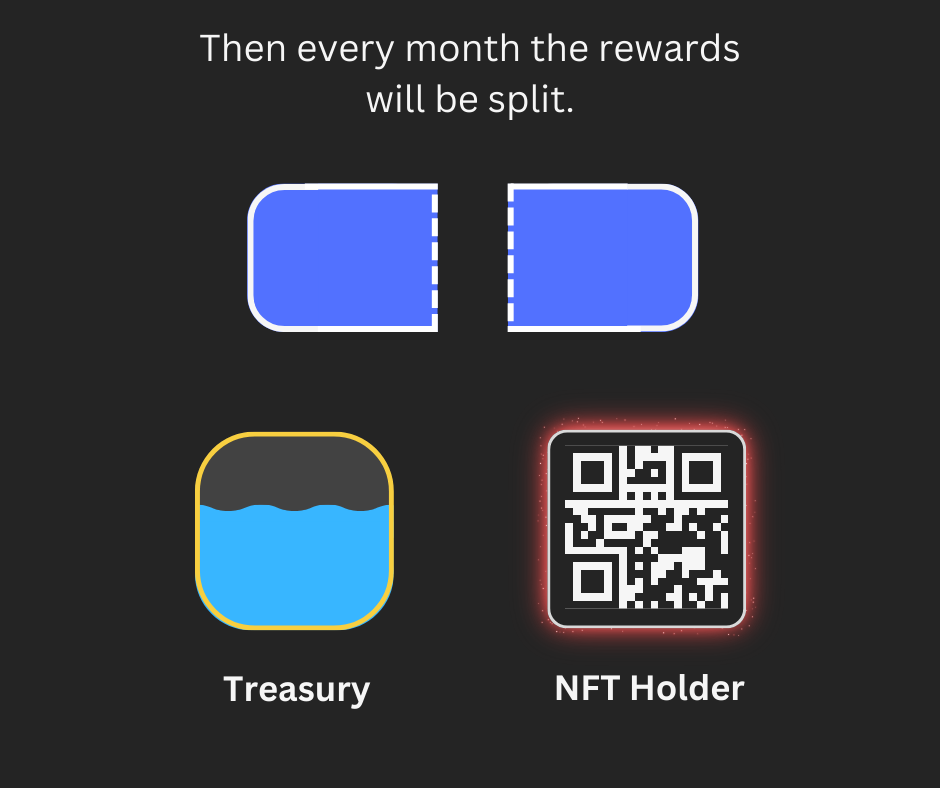
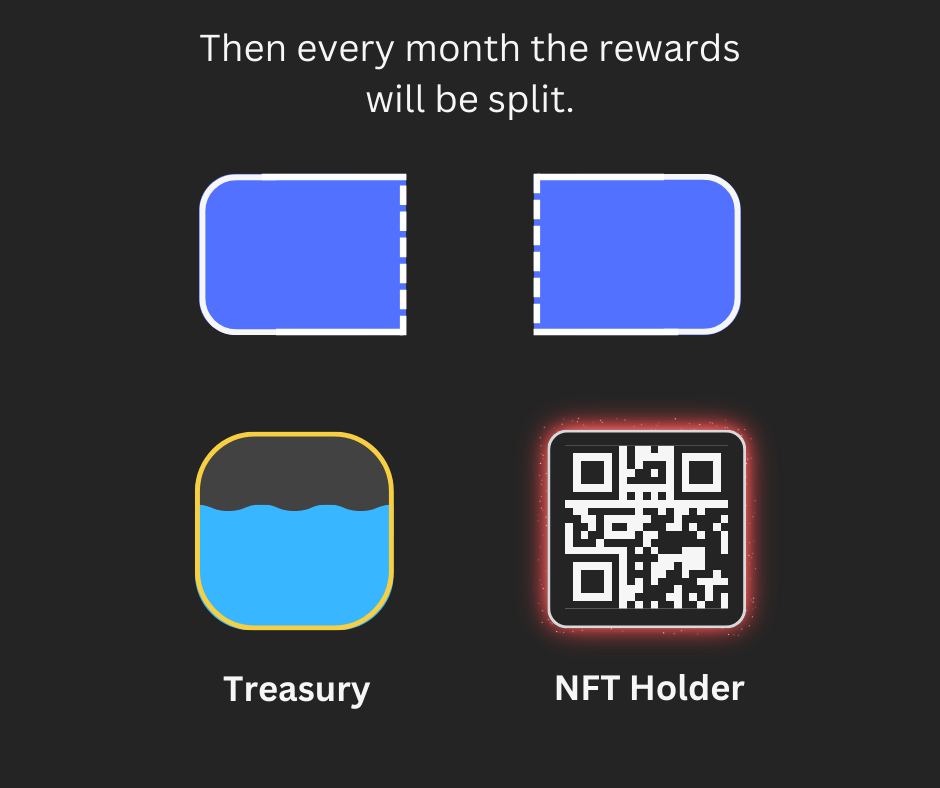
about treasury animation finished

Changed region(s): [[0.1851, 0.2132, 0.4936, 0.4264], [0.5245, 0.2132, 0.8021, 0.4264]]

diff --git a/src/app/globals.css b/src/app/globals.css
@@ -57,7 +57,7 @@
   margin-top: 30px;
   transition: 0.2s ease;
   font-size: 14px;
-  color: whitesmoke;
+  color: rgb(209, 233, 255);
   font-weight: bolder;
   background: linear-gradient(90deg, #1087F3 0%, #AC43E0 76%);
   animation: fade-slide-from-right ease 2.5s;
@@ -93,19 +93,49 @@
   width: 100%;
   height: 100%;
   justify-content: center;
+  animation: aboutOnLoad ease 4s;
 }
 
 .AboutImage {
-  width: 940px;
-  height: 788px;
+  width: 752px;
+  height: 630.4px;
   border-radius: 5%;
   background-color: #242424;
   background-size: contain;
   background-repeat: no-repeat;
   background-position: center;
-  transition: 0.3s ease;
+  transition: 1s ease;
+  border: solid 4px #898989;
+  position: relative;
 }
 
+.aboutBtn {
+  position: absolute;
+  height: 60px;
+  width: 60px;
+  border-radius: 50%;
+  border: none;
+  background: rgb(172, 67, 224);
+  color: rgb(209, 233, 255);
+}
+.aboutBtn * {
+  height: 60px;
+  width: 60px;
+}
+.aboutBtn:hover {
+  box-shadow: 0 5px 15px rgba(202, 200, 204, 0.4);
+}
+.aboutBtnRight {
+  right: -30px;
+  top: calc(50% - 30px);
+}
+.aboutBtnLeft {
+  left: -30px;
+  top: calc(50% - 30px);
+}
+.hide {
+  visibility: hidden;
+}
 .about1 {
   background-image: url('./about/images/About_Treasury_1.png');
 }
@@ -113,30 +143,123 @@
   background-image: url('./about/images/About_Treasury_2.png');
 }
 .about3 {
-  background-image: url('./about/images/About_Treasury_3.png');
+  background-image: url('./about/images/About_Treasury_3a.png');
+  animation: about3animation ease 4s;
 }
-.about4 {
-  background-image: url('./about/images/About_Treasury_4.png');
-}
-.about5 {
-  background-image: url('./about/images/About_Treasury_5.png');
-}
-.about6 {
-  background-image: url('./about/images/About_Treasury_6.png');
-}
-.about7 {
-  background-image: url('./about/images/About_Treasury_7.png');
-}
-.about8 {
-  background-image: url('./about/images/About_Treasury_8.png');
-}
-@media screen and (max-width: 1000px) {
-  .AboutImage {
-    width: 752px;
-    height: 630.4px;
+@keyframes about3animation {
+  0% {
+    background-image: url('./about/images/About_Treasury_3.png');
+  }
+  50% {
+    background-image: url('./about/images/About_Treasury_3.png');
+  }
+  100% {
+    background-image: url('./about/images/About_Treasury_3a.png');
   }
 }
-@media screen and (max-width: 800px) {
+.about4 {
+  background-image: url('./about/images/About_Treasury_4a.png');
+  animation: about4animation ease 3s;
+}
+@keyframes about4animation {
+  0% {
+    background-image: url('./about/images/About_Treasury_4.png');
+  }
+  80% {
+    background-image: url('./about/images/About_Treasury_4.png');
+  }
+  100% {
+    background-image: url('./about/images/About_Treasury_4a.png');
+  }
+}
+.about5 {
+  background-image: url('./about/images/About_Treasury_5a.png');
+  animation: about5animation ease 3s;
+}
+@keyframes about5animation {
+  0% {
+    background-image: url('./about/images/About_Treasury_5.png');
+  }
+  50% {
+    background-image: url('./about/images/About_Treasury_5.png');
+  }
+  100% {
+    background-image: url('./about/images/About_Treasury_5a.png');
+  }
+}
+.about6 {
+  background-image: url('./about/images/About_Treasury_6a.png');
+  animation: about6animation ease 3s;
+}
+@keyframes about6animation {
+  0% {
+    background-image: url('./about/images/About_Treasury_6.png');
+  }
+  60% {
+    background-image: url('./about/images/About_Treasury_6.png');
+  }
+  100% {
+    background-image: url('./about/images/About_Treasury_6a.png');
+  }
+}
+.about7 {
+  background-image: url('./about/images/About_Treasury_7c.png');
+  animation: about7animation ease 5s;
+}
+@keyframes about7animation {
+  0% {
+    background-image: url('./about/images/About_Treasury_7.png');
+  }
+  40% {
+    background-image: url('./about/images/About_Treasury_7.png');
+  }
+  60% {
+    background-image: url('./about/images/About_Treasury_7a.png');
+  }
+  80% {
+    background-image: url('./about/images/About_Treasury_7b.png');
+  }
+  100% {
+    background-image: url('./about/images/About_Treasury_7c.png');
+  }
+}
+.about8 {
+  background-image: url('./about/images/About_Treasury_8i.png');
+  animation: about8animation ease 13s;
+}
+@keyframes about8animation {
+  0% {
+    background-image: url('./about/images/About_Treasury_8.png');
+  }
+  10% {
+    background-image: url('./about/images/About_Treasury_8.png');
+  }
+  20% {
+    background-image: url('./about/images/About_Treasury_8b.png');
+  }
+  30% {
+    background-image: url('./about/images/About_Treasury_8c.png');
+  }
+  40% {
+    background-image: url('./about/images/About_Treasury_8d.png');
+  }
+  50% {
+    background-image: url('./about/images/About_Treasury_8e.png');
+  }
+  60% {
+    background-image: url('./about/images/About_Treasury_8f.png');
+  }
+  70% {
+    background-image: url('./about/images/About_Treasury_8g.png');
+  }
+  80% {
+    background-image: url('./about/images/About_Treasury_8h.png');
+  }
+  100% {
+    background-image: url('./about/images/About_Treasury_8i.png');
+  }
+}
+@media screen and (max-width: 850px) {
   .AboutImage {
     width: 564px;
     height: 472.8px;
@@ -148,13 +271,20 @@
     height: 315.2px;
   }
 }
-@media screen and (max-width: 400px) {
+@media screen and (max-width: 420px) {
   .AboutImage {
     width: 347.8px;
     height: 291.56px;
   }
+  .aboutBtnRight {
+    right: 15%;
+    top: 115%;
+  }
+  .aboutBtnLeft {
+    left: 15%;
+    top: 115%;
+  }
 }
-
 @keyframes bubbles {
   100% {
     transform: translateY(100vh) scale(1)
@@ -163,18 +293,17 @@
     transform: translateY(-10vh) scale(0)
   }
 }
-
-@keyframes fadein {
+@keyframes aboutOnLoad {
   0% {
     opacity: 0;
-    transform: translateY(-20vh);
+    transform: translateY(20vh);
   }
-  20% {
+  60% {
     opacity: 0;
-    transform: translateY(-20vh);
+    transform: translateY(5vh);
   }
   100% {
-    opacity: 0.3;
+    opacity: 1;
   }
 }
 @keyframes fade-slide-from-right {

diff --git a/src/app/components/AboutImage.js b/src/app/components/AboutImage.js
@@ -1,24 +1,56 @@
 'use client'
-import React, { useState } from 'react';
+import React, { useState, useEffect } from 'react';
+import { BsArrowLeftCircle } from 'react-icons/bs'
+import { BsArrowRightCircle } from 'react-icons/bs'
 
 export default function AboutImage() {
 
     const [aboutNumber, setAboutNumber] = useState(1)
 
     const aboutNext = () => {
+        if(aboutNumber == 8) {
+            return
+        }
         const newNum = aboutNumber + 1
         setAboutNumber(newNum)
     }
     const aboutPrevious = () => {
+        if(aboutNumber == 1) {
+            return
+        }
         const newNum = aboutNumber - 1
         setAboutNumber(newNum)
     }
 
+    useEffect(() => {
+        document.addEventListener('keydown', detectKeyDown, true)
+    })
+
+    const detectKeyDown = (e) => {
+        if(e.key === " ") {
+            aboutNext()
+        }
+        if(e.key === "ArrowRight") {
+            aboutNext()
+        }
+        if(e.key === "ArrowLeft") {
+            aboutPrevious()
+        }
+        if(e.key === "Backspace") {
+            aboutPrevious()
+        }
+    }
+
     return (
       <div className='AboutImageContainer'>
-        <button disabled={aboutNumber < 2 ? 'disabled' : ''} onClick={aboutPrevious}> Prev </button>
-        <div className={`AboutImage about${aboutNumber}`}></div>
-        <button disabled={aboutNumber > 7 ? 'disabled' : ''} onClick={aboutNext}> Next </button>
+        <div className={`AboutImage about${aboutNumber}`}>
+            <button
+                className={`aboutBtn aboutBtnLeft ${aboutNumber == 1 ? 'hide' : ''}`}
+                onClick={aboutPrevious}> <BsArrowLeftCircle /> </button>
+            <button 
+                className={`aboutBtn aboutBtnRight ${aboutNumber == 8 ? 'hide' : ''}`}
+                onClick={aboutNext}> <BsArrowRightCircle /> </button>    
+        </div>
       </div>
     )
   }
